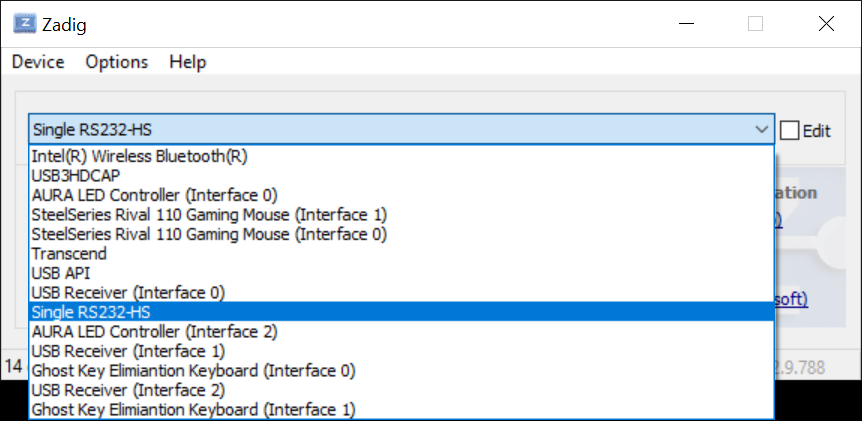
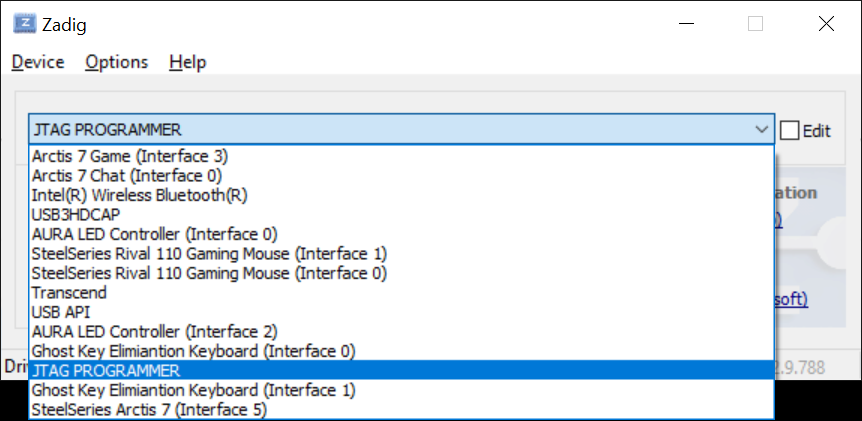
Further clarify firmware update sequence with the precise USB device name and ID, and add updated screenshots.

diff --git a/manual/index.html b/manual/index.html
@@ -116,7 +116,7 @@ td {
 
 <h1 class='center'>CRT Terminator DV1000 ISA</h1>
 <h2 class='center' style='padding-top: 0px'>User Manual</h2>
-<h3 class='center'>2025-01-26</h3>
+<h3 class='center'>2025-01-27</h3>
 
 <img src="crt_terminator_showcase.jpg" style="float:right; width:37%; border: solid 1px black; margin-right: 20px; margin-top: 60px">
 
@@ -1915,11 +1915,11 @@ In this case, the Display Blank portion consists of 3+48+13 = 64 pixels. These l
 
 <br><a href='zadig-3.png'><img src='zadig-3.png' width=40%></a>
 
-<h4>5.3. From the dropdown menu, find the CRT Terminator FPGA device. In this case, it is the device with USB ID "0403 6014".</h4>
+<h4>5.3. From the dropdown menu, find the CRT Terminator FPGA device.</h4>
 
-<a href='zadig-4.png'><img src='zadig-4.png' width=40%></a>
+<p>The device should be named <b>"JTAG PROGRAMMER"</b> with <b>USB ID "0403 6014"</b>, like so:
 
-<p>On your PC, the human-readable name of the FPGA device is expected to read <b>"JTAG Programmer"</b>. (These screenshots were made against a previous prototype board, where the USB device was named "Single RS232-HS")
+<p><a href='zadig-4.png'><img src='zadig-4.png' width=40%></a>
 
 <div style='border: solid 1px black;'>
 <b>DO NOT PROCEED with the next step 5.4. unless you have positively identified the CRT Terminator FPGA Device.</b>
@@ -1930,7 +1930,7 @@ In this case, the Display Blank portion consists of 3+48+13 = 64 pixels. These l
 </b>
 </div>
 
-<h4>5.4. From the drop down list pointed to by the green arrow, select WinUSB (v6.1.7600.16385) and click "Replace Driver".</h4>
+<h4>5.4. From the up/down arrows next to the list item pointed to by the green arrow, select WinUSB (v6.1.7600.16385) and click "Replace Driver".</h4>
 
 <p>After installation, the dialog should show like this:
 
@@ -2100,6 +2100,7 @@ In this case, the Display Blank portion consists of 3+48+13 = 64 pixels. These l
 <p>This section lists changes to this manual. For precise changes, see <a href='https://github.com/juj/crt_terminator/commits/main/manual'>GitHub history on the manual/ subdirectory</a>.
 
 <ul>
+<li><b>2025-01-27</b>: Further clarified firmware update sequence with the precise USB device name and ID, and added updated screenshots.</li>
 <li><b>2025-01-26</b>: Clarified firmware update sequence.</li>
 <li><b>2025-01-25</b>: Added new section Updating the Firmware.</li>
 <li><b>2025-01-16</b>: Added new sections Developer HUD and Anatomy of a Video Frame.</li>
